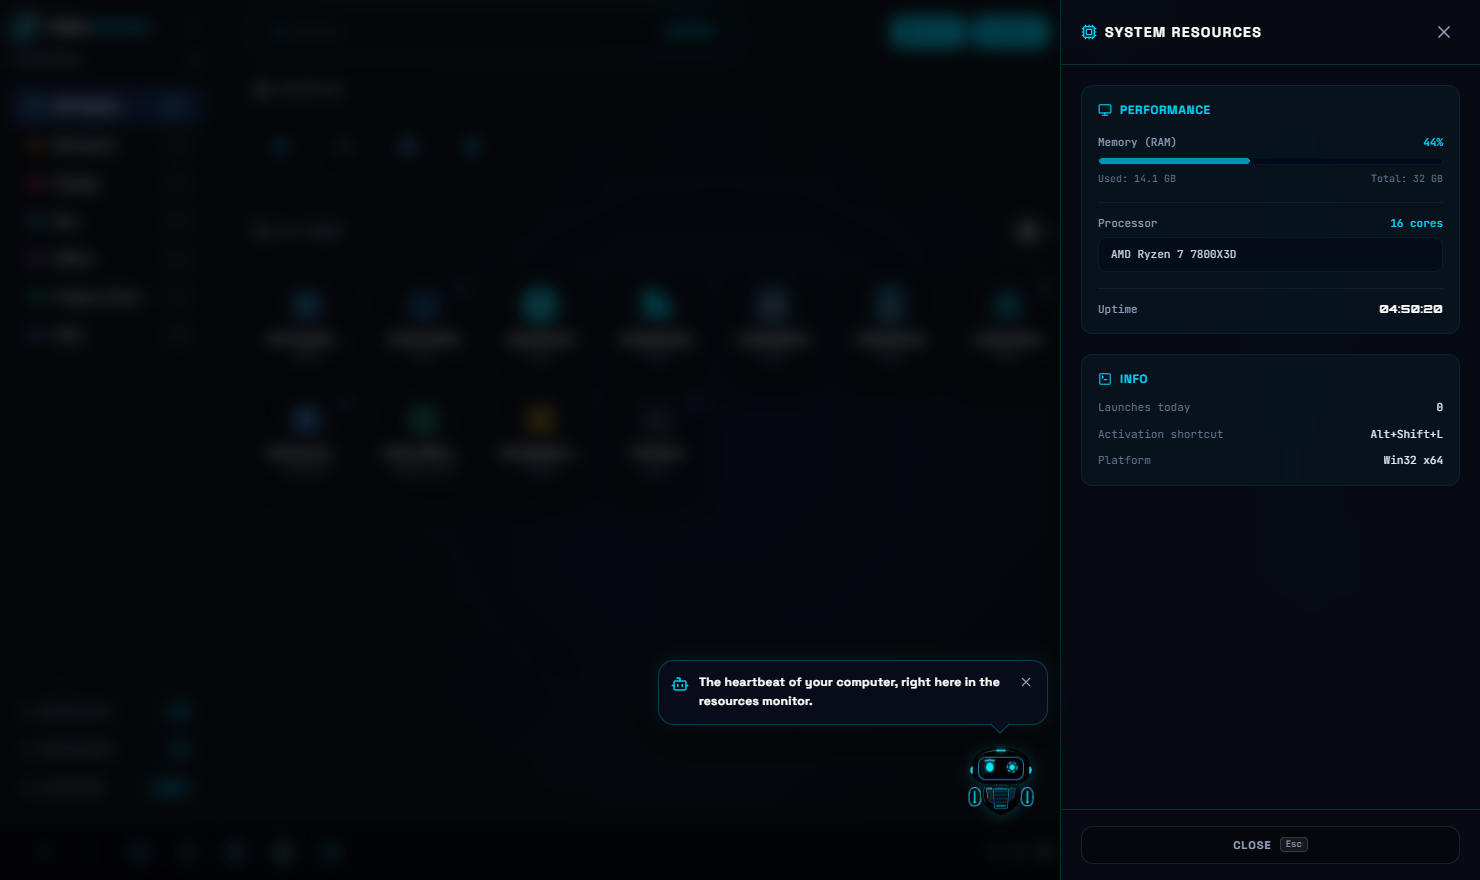
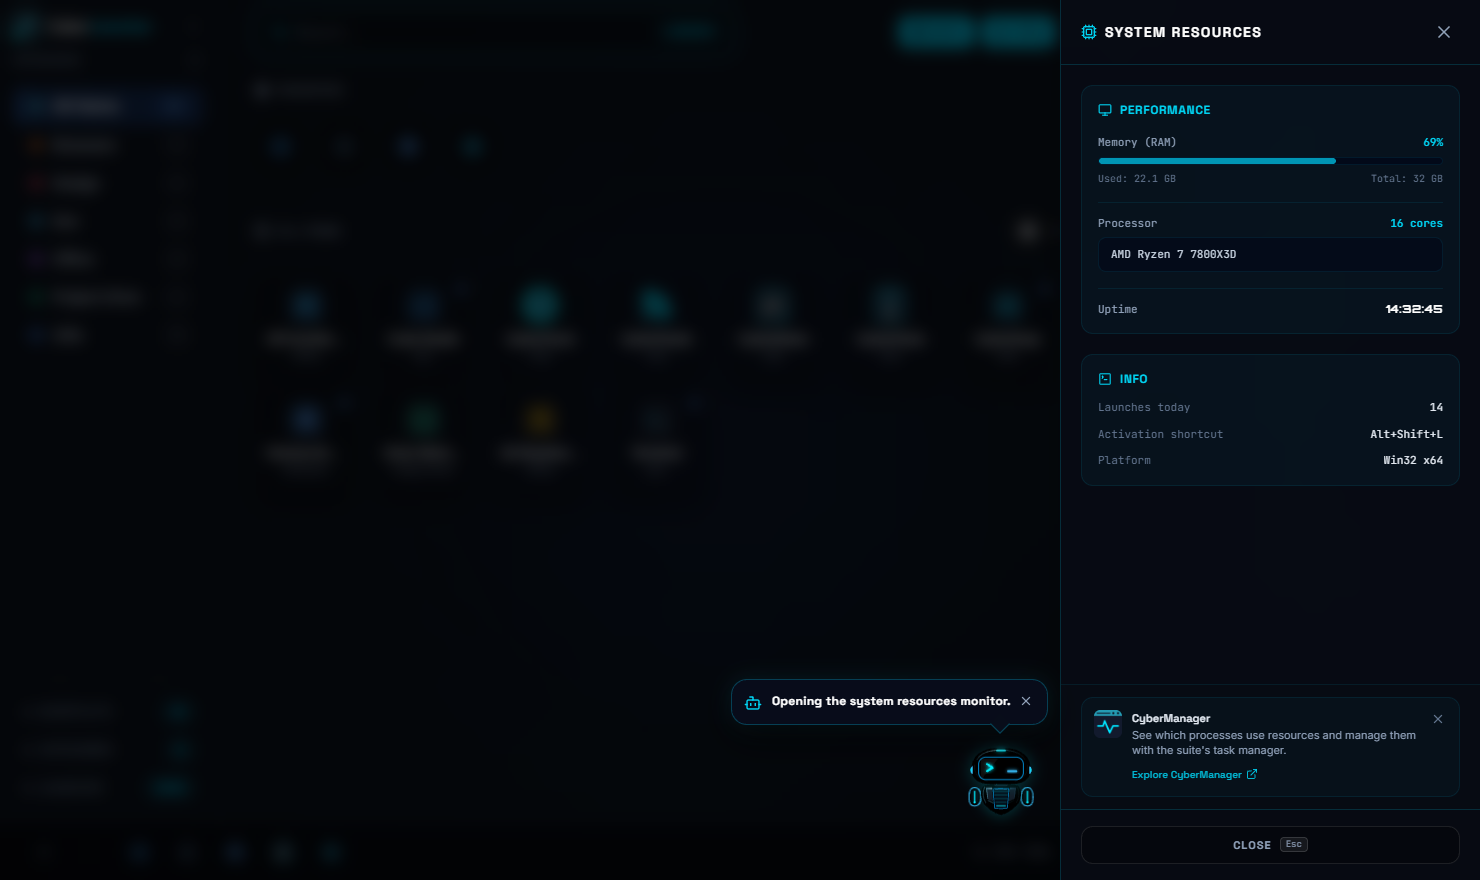
Add CyberLauncher Storage HUD and updated System HUD screenshots

diff --git a/docs/screenshots-log.md b/docs/screenshots-log.md
@@ -52,8 +52,8 @@ Control interno de capturas bilingües (EN / ES) según [docs/screenshots.md](./
 | CyberWall | Conexiones | ES | 2.5.5 | CyberWall | 100% (1320x780) | 2026-11-27 | `public/screenshots/cyberwall/connections-es.webp` | 39.7 KB | Pestaña Conexiones de CyberWall mostrando eventos permitidos y bloqueados de salida y entrada con banderas por país, destinos y PID | Registro de Conexiones para auditar eventos permitidos y bloqueados con dirección, país de destino, endpoint y filtros rápidos. | publicada |
 | CyberLauncher | Terminal | EN | 1.17.0 | dark | 100% (1480x880) | 2026-11-27 | `public/screenshots/cyberlauncher/terminal-en.webp` | 112.3 KB | CyberLauncher embedded Cyber Terminal running PowerShell commands and tests inside the launcher workspace | Integrated Cyber Terminal (Ctrl+J) with persistent PowerShell and CMD sessions inside the launcher. | publicada |
 | CyberLauncher | Terminal | ES | 1.17.0 | dark | 100% (1480x880) | 2026-11-27 | `public/screenshots/cyberlauncher/terminal-es.webp` | 116.9 KB | Terminal integrada Cyber Terminal en CyberLauncher ejecutando comandos de PowerShell y pruebas dentro del espacio de trabajo | Cyber Terminal integrada (Ctrl+J) con sesiones persistentes de PowerShell o CMD dentro del lanzador. | publicada |
-| CyberLauncher | HUD Sistema | EN | 1.17.0 | dark | 100% (1480x880) | 2026-11-27 | `public/screenshots/cyberlauncher/system-en.webp` | 99.2 KB | CyberLauncher System Resources HUD overlay displaying RAM usage, processor model and core count, uptime and shortcut info | System Resources HUD showing live memory usage, processor topology, uptime and launcher shortcut overview. | publicada |
-| CyberLauncher | HUD Sistema | ES | 1.17.0 | dark | 100% (1480x880) | 2026-11-27 | `public/screenshots/cyberlauncher/system-es.webp` | 99.7 KB | Panel HUD de Recursos del sistema en CyberLauncher mostrando uso de RAM, procesador y núcleos, tiempo activo e información rápida | HUD de Recursos del sistema con uso de memoria en vivo, procesador, tiempo activo y datos clave del lanzador. | publicada |
+| CyberLauncher | HUD Sistema | EN | 1.17.0 | dark | 100% (1480x880) | 2026-11-27 | `public/screenshots/cyberlauncher/system-en.webp` | 104.9 KB | CyberLauncher System Resources HUD overlay displaying RAM usage, processor model and core count, uptime and shortcut info | System Resources HUD showing live memory usage, processor topology, uptime and launcher shortcut overview. | publicada |
+| CyberLauncher | HUD Sistema | ES | 1.17.0 | dark | 100% (1480x880) | 2026-11-27 | `public/screenshots/cyberlauncher/system-es.webp` | 108.1 KB | Panel HUD de Recursos del sistema en CyberLauncher mostrando uso de RAM, procesador y núcleos, tiempo activo e información rápida | HUD de Recursos del sistema con uso de memoria en vivo, procesador, tiempo activo y datos clave del lanzador. | publicada |
 | CyberLauncher | CyberBot flotante | EN | 1.17.0 | dark | 100% (980x680) | 2026-11-27 | `public/screenshots/cyberlauncher/cyberbot-en.webp` | 78.5 KB | CyberLauncher floating desktop CyberBot companion bubble showing search bar, most used shortcuts and recent launches | Floating desktop CyberBot (Alt+Shift+B) for searching shortcuts, favorites and recent launches right over your workspace. | publicada |
 | CyberLauncher | CyberBot flotante | ES | 1.17.0 | dark | 100% (980x680) | 2026-11-27 | `public/screenshots/cyberlauncher/cyberbot-es.webp` | 79.7 KB | Compañero flotante CyberBot en el escritorio mostrando buscador de accesos, aplicaciones más usadas y lanzamientos recientes | CyberBot flotante de escritorio (Alt+Shift+B) para buscar accesos, favoritos y lanzamientos recientes sin abrir la ventana principal. | publicada |
 | CyberViewer | Audio | EN | 1.25.0 | dark | 100% (1520x900) | 2026-11-27 | `public/screenshots/cyberviewer/audio-en.webp` | 264.9 KB | CyberViewer audio playback view with real-time spectrum bars, track waveform seek bar, and floating 10-band equalizer | Built-in audio player with real-time spectrum visualizer, full-track waveform seek bar, and 10-band graphic equalizer. | publicada |
@@ -64,3 +64,5 @@ Control interno de capturas bilingües (EN / ES) según [docs/screenshots.md](./
 | CyberViewer | Ajustes | ES | 1.25.0 | dark | 100% (1520x900) | 2026-11-27 | `public/screenshots/cyberviewer/adjust-es.webp` | 168.2 KB | Panel de ajustes en vivo de CyberViewer con deslizadores de brillo, contraste, saturación y desenfoque sobre la imagen | Panel de ajustes en tiempo real con deslizadores de tono, comparativa A/B y opción para guardar una copia editada. | publicada |
 | CyberFeeds | Lector enfocado | EN | 1.32.4 | dark | 100% (1520x900) | 2026-11-27 | `public/screenshots/cyberfeeds/reader-en.webp` | 41.5 KB | CyberFeeds distraction-free single-panel Focus Reader view with toolbar, clean article typography, and full-article fetch button | Distraction-free single-panel Focus Reader hiding the sidebar and article list for focused reading. | publicada |
 | CyberFeeds | Lector enfocado | ES | 1.32.4 | dark | 100% (1520x900) | 2026-11-27 | `public/screenshots/cyberfeeds/reader-es.webp` | 40.9 KB | Vista de lector enfocado en un solo panel de CyberFeeds con barra de lectura limpia, tipografía clara y botón para obtener el artículo completo | Modo de lectura enfocada en un solo panel que oculta la barra lateral y la lista de artículos. | publicada |
+| CyberLauncher | HUD Almacenamiento | EN | 1.17.0 | dark | 100% (1480x880) | 2026-11-27 | `public/screenshots/cyberlauncher/storage-en.webp` | 100.2 KB | CyberLauncher Storage HUD drawer displaying disk drives C through H with cyan and amber usage bars, free space and total capacity | Storage HUD showing every drive's usage percentage, high-usage alerts, free space, and total capacity in one side drawer. | publicada |
+| CyberLauncher | HUD Almacenamiento | ES | 1.17.0 | dark | 100% (1480x880) | 2026-11-27 | `public/screenshots/cyberlauncher/storage-es.webp` | 102.1 KB | Panel HUD de Almacenamiento en CyberLauncher mostrando las unidades C a H con barras de uso en cian y ámbar, espacio libre y capacidad total | HUD de Almacenamiento con porcentaje de uso por unidad, alertas de espacio alto, capacidad libre y total en un solo panel lateral. | publicada |
